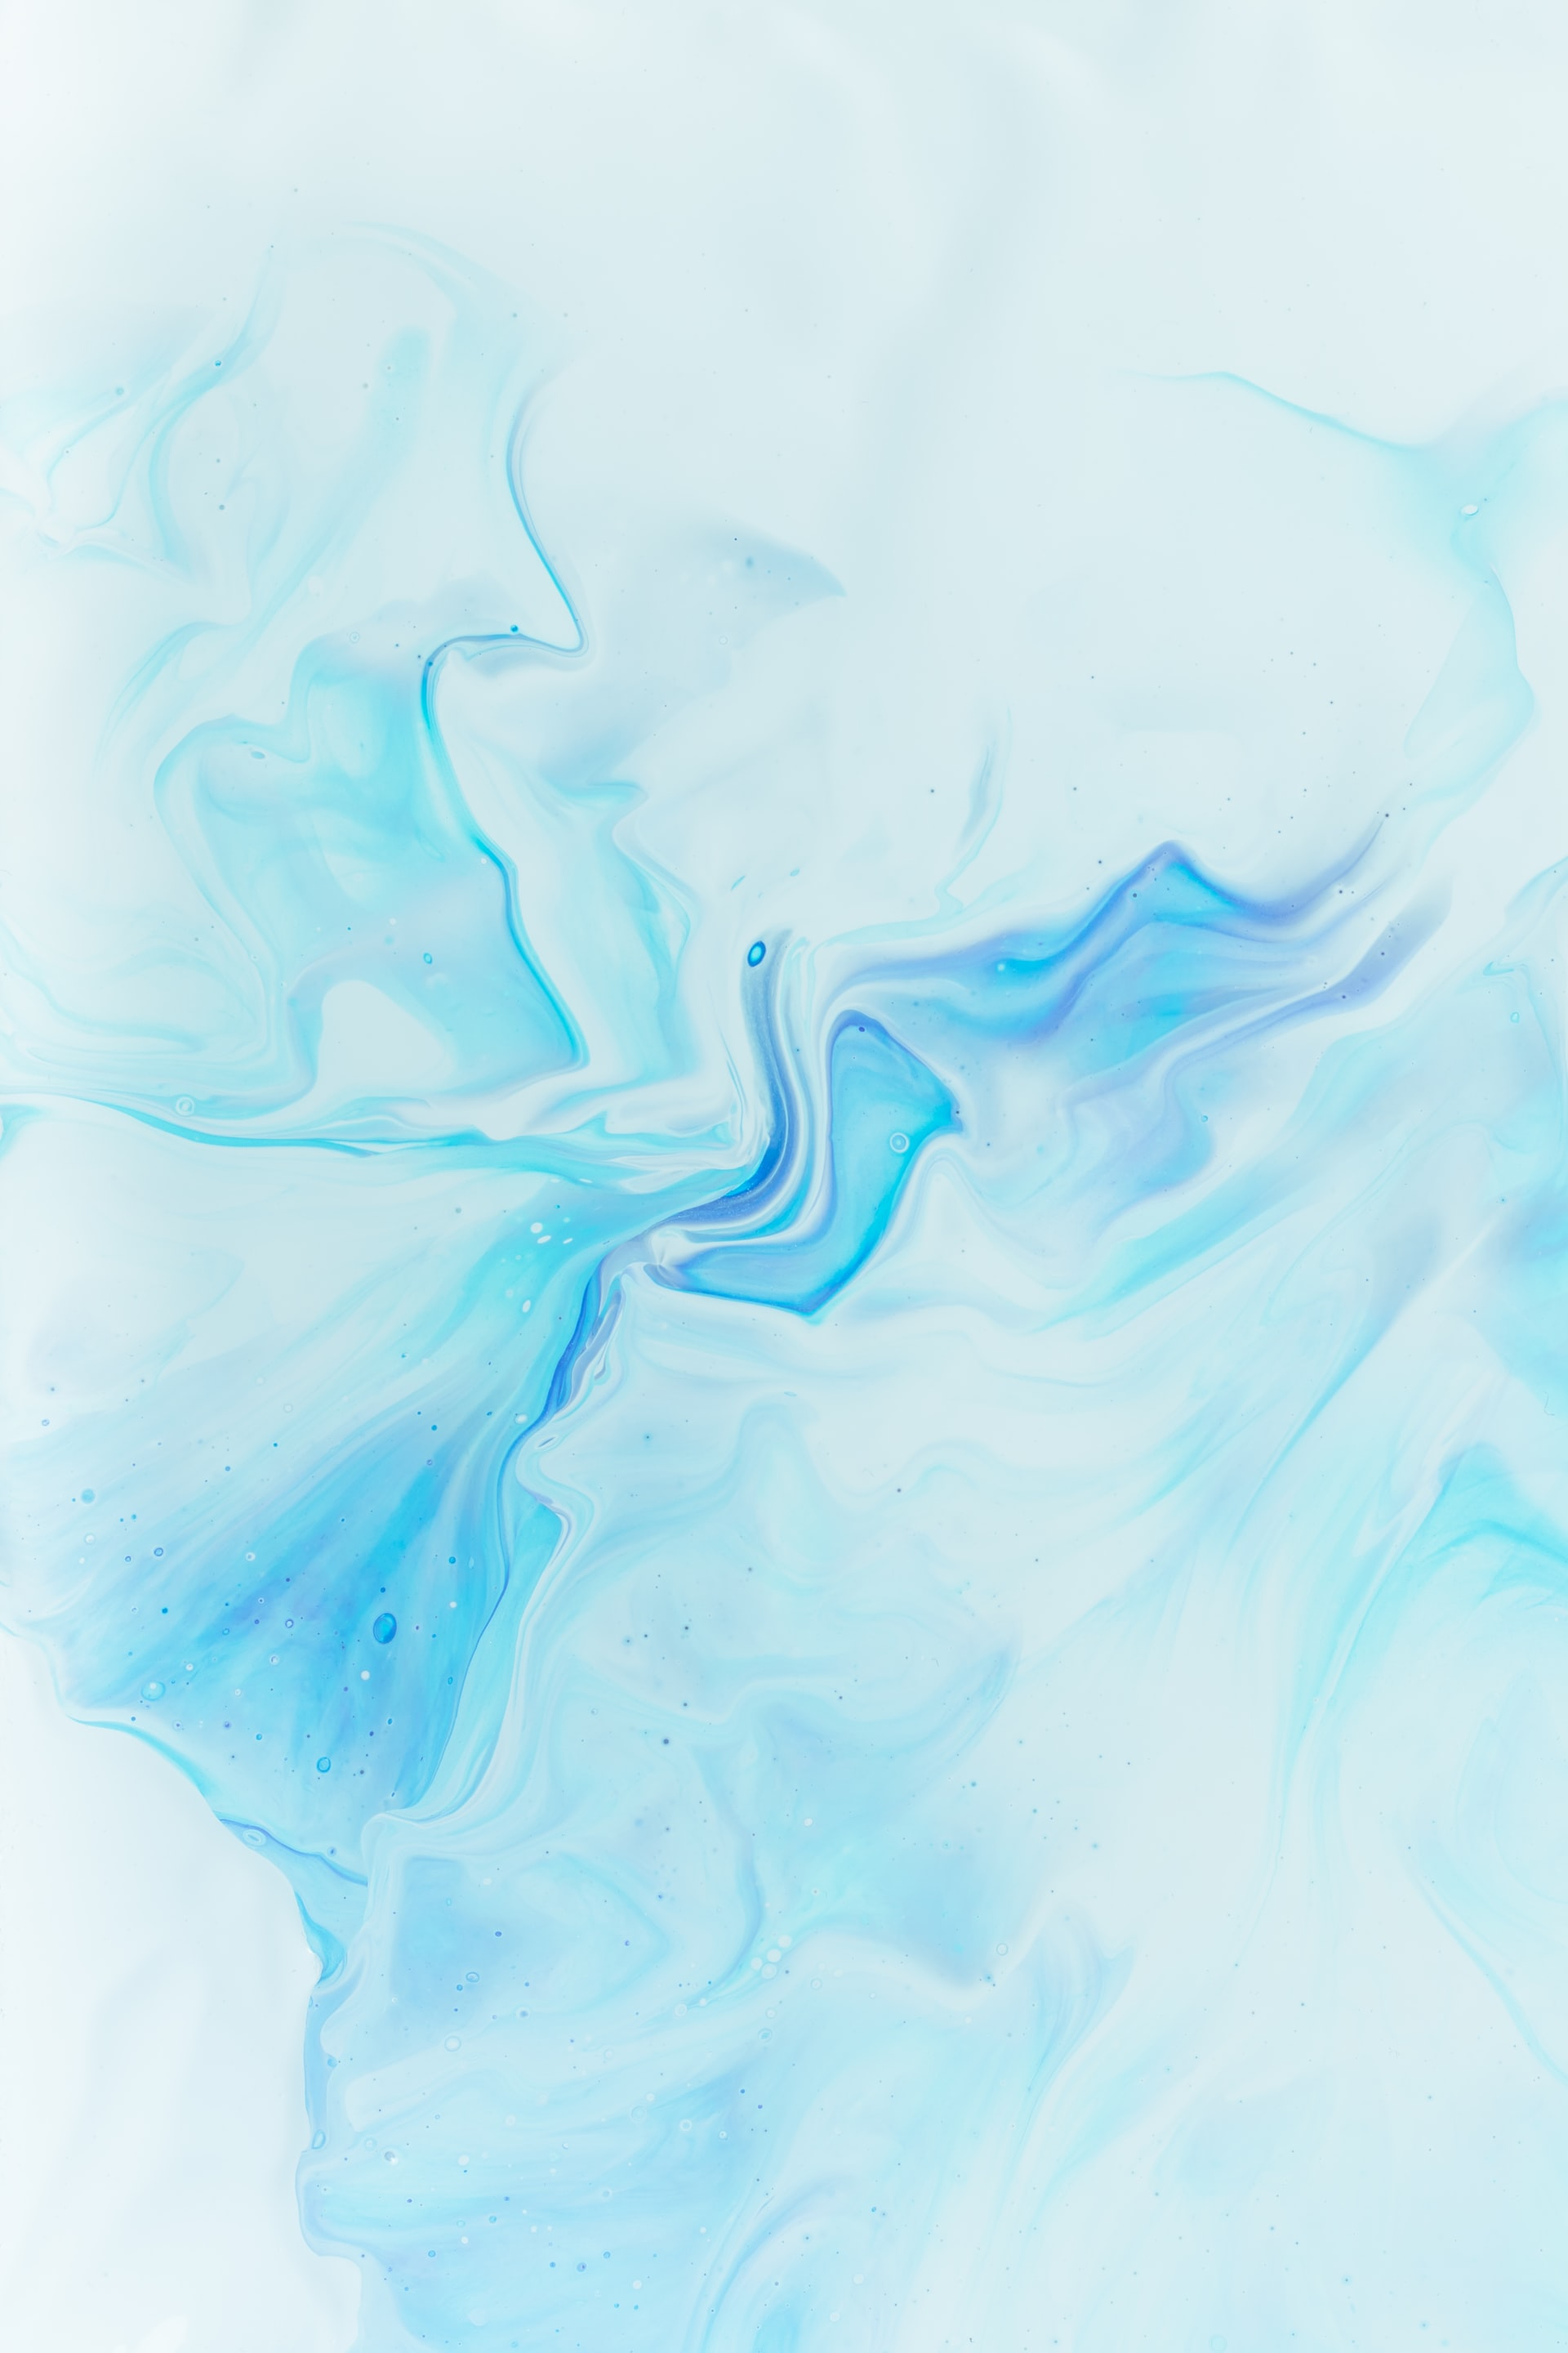
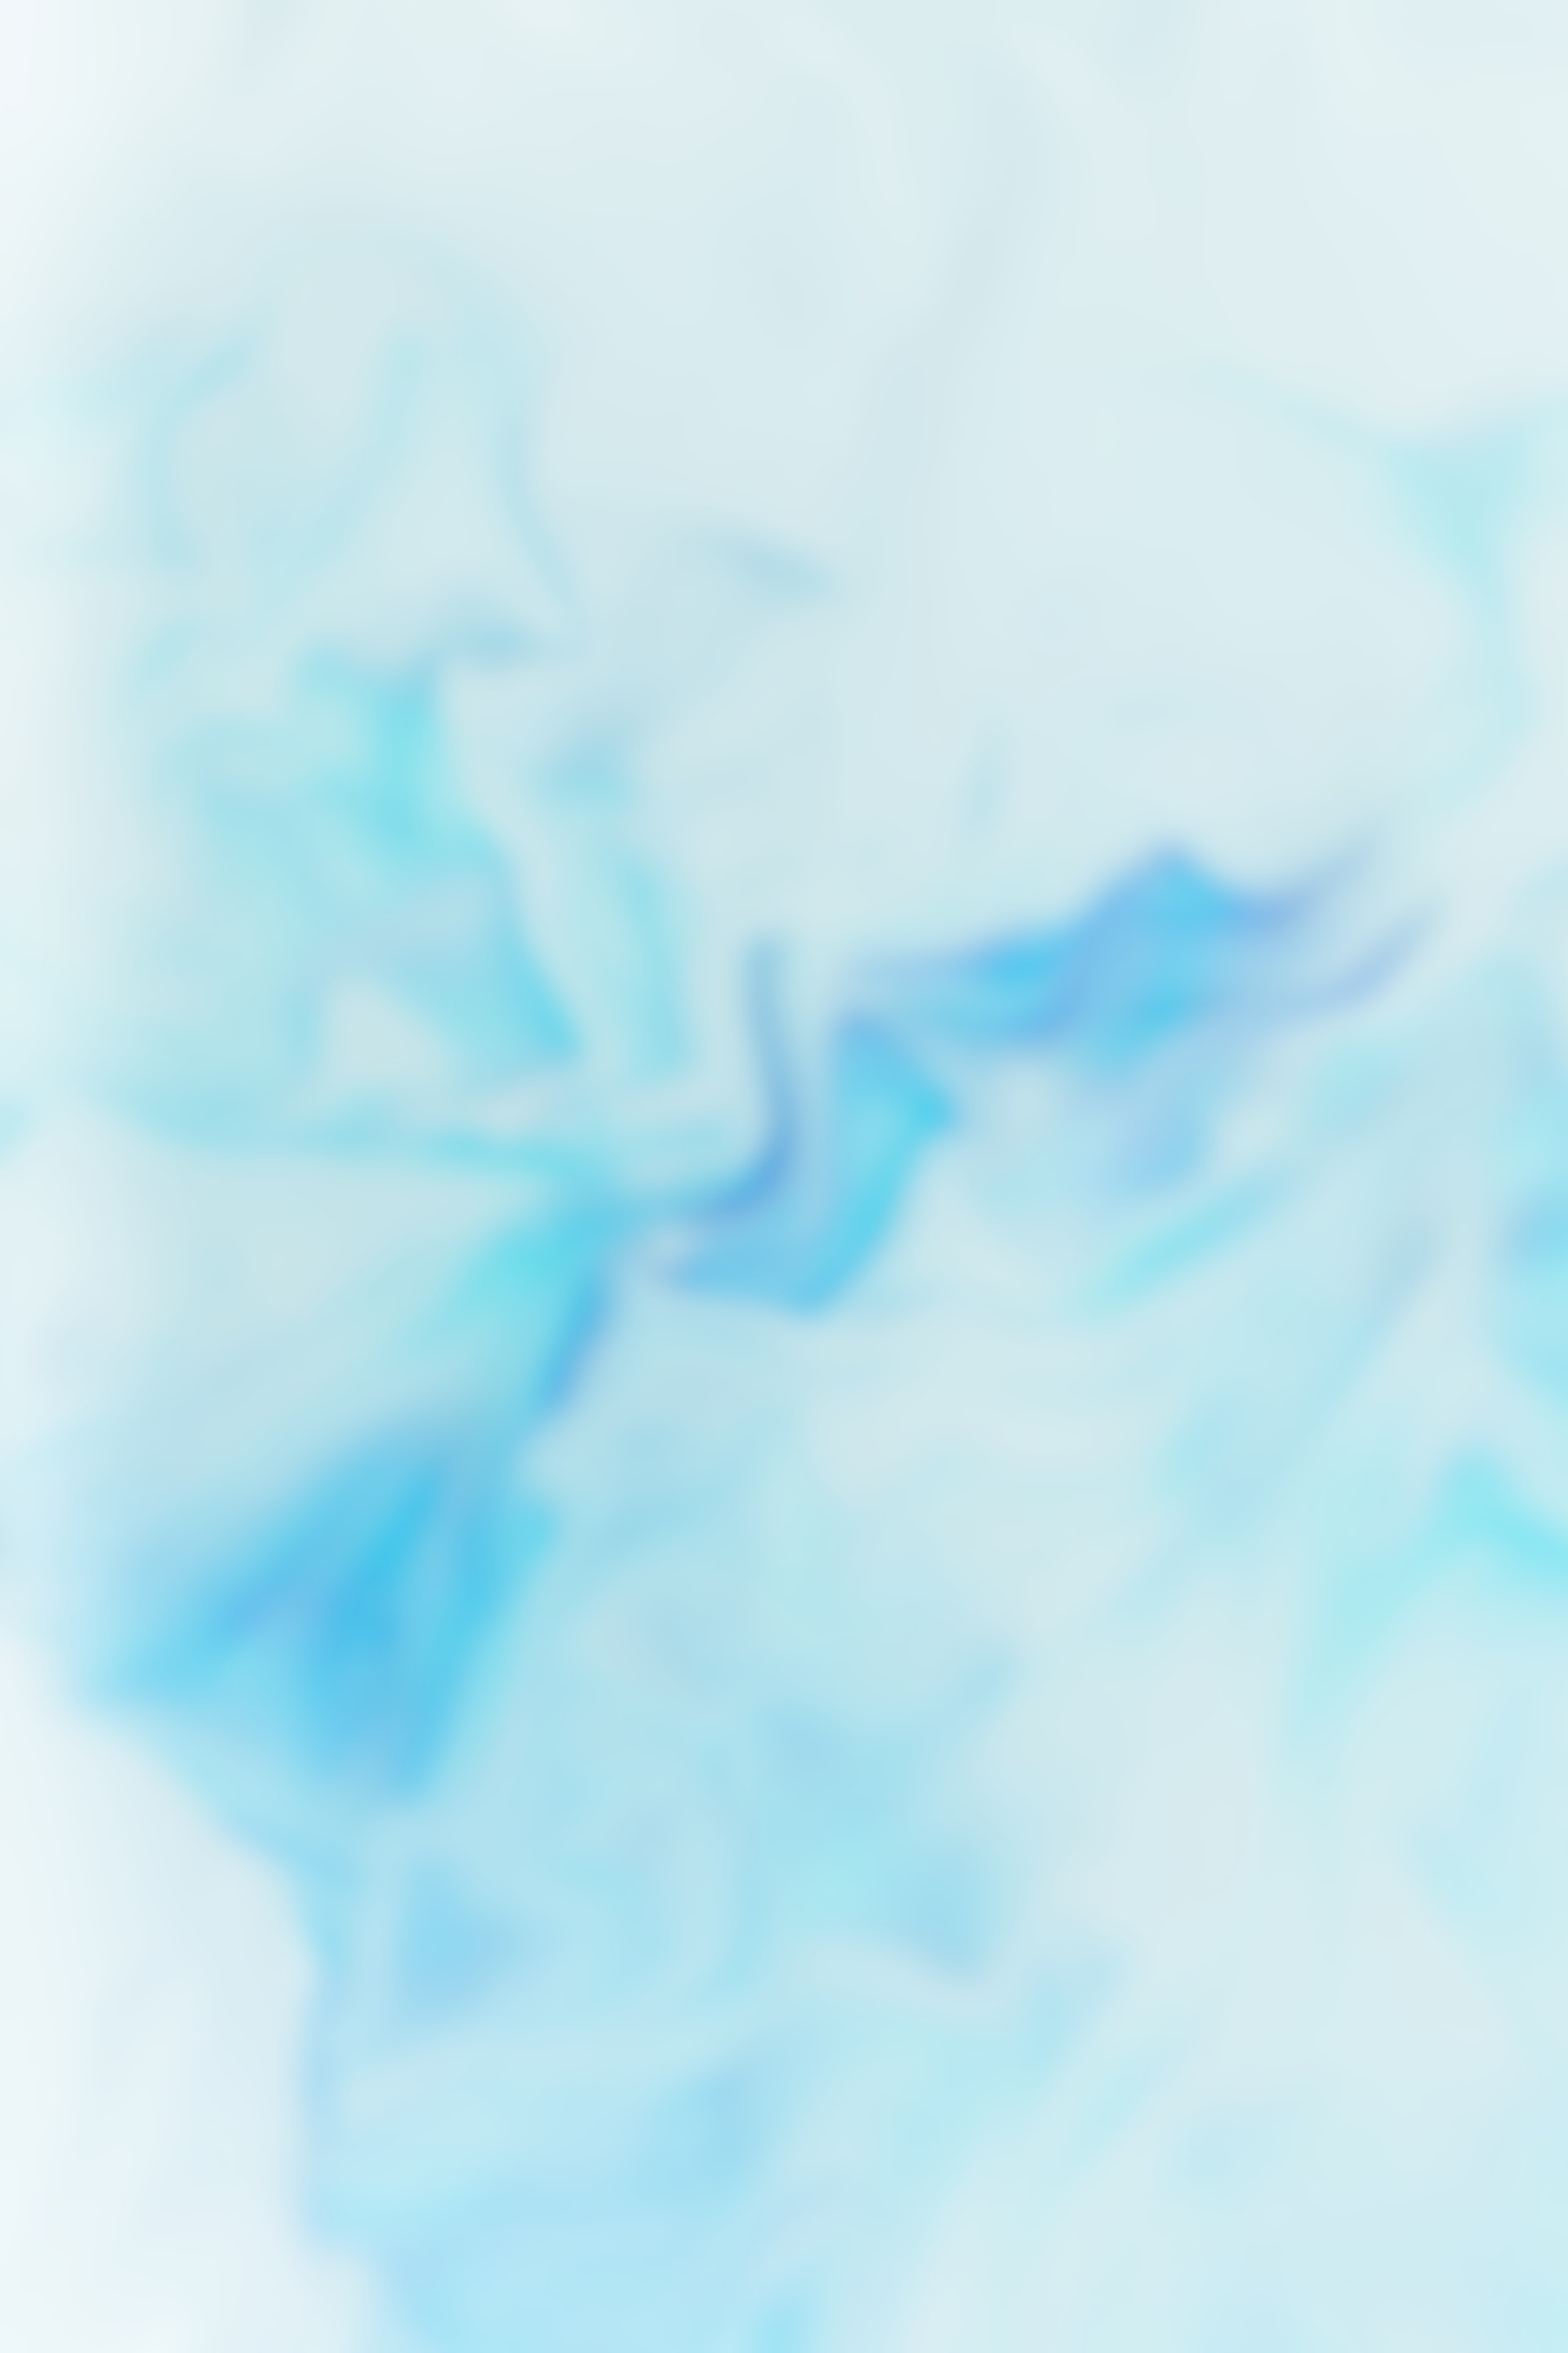
[appearance] add a blurred background image to footer and navbar

diff --git a/about/index.html b/about/index.html
@@ -22,7 +22,7 @@
     <link rel="icon" type="image/x-icon" href="https://raw.githubusercontent.com/AspectOS/aspectos.github.io/main/images/AspectOS%20Logo.png">
 </head>
     <body class="light">
-        <nav class="navbar navbar-light fade-main navbar-expand-lg">
+        <nav class="navbar navbar-light fade-main navbar-expand-lg footer-bg small-border-radius">
             <div class="container-fluid">
                 <a class="navbar-brand" href="https://aspectos.github.io">Aspect OS</a>
 
@@ -151,7 +151,7 @@
 
         <div class="container my-5">
           <footer class="text-center text-lg-start text-black" style="background-color: white">
-            <div class="container p-4 pb-0">
+            <div class="container p-4 pb-0 footer-bg small-border-radius">
               <section class="">
                 <div class="row">
                   <div class="col-md-3 col-lg-3 col-xl-3 mx-auto mt-3">

diff --git a/downloads/index.html b/downloads/index.html
@@ -22,7 +22,7 @@
     <link rel="icon" type="image/x-icon" href="https://raw.githubusercontent.com/AspectOS/aspectos.github.io/main/images/AspectOS%20Logo.png">
 </head>
     <body class="light">
-        <nav class="navbar navbar-light fade-main navbar-expand-lg">
+        <nav class="navbar navbar-light fade-main navbar-expand-lg footer-bg small-border-radius">
             <div class="container-fluid">
                 <a class="navbar-brand" href="https://aspectos.github.io">Aspect OS</a>
 
@@ -58,7 +58,7 @@
 
         <div class="container my-5">
           <footer class="text-center text-lg-start text-black" style="background-color: white">
-            <div class="container p-4 pb-0">
+            <div class="container p-4 pb-0 footer-bg small-border-radius">
               <section class="">
                 <div class="row">
                   <div class="col-md-3 col-lg-3 col-xl-3 mx-auto mt-3">

diff --git a/docs/index.html b/docs/index.html
@@ -21,7 +21,7 @@
     <link rel="icon" type="image/x-icon" href="https://raw.githubusercontent.com/AspectOS/aspectos.github.io/main/images/AspectOS%20Logo.png">
 </head>
     <body>
-        <nav class="navbar navbar-light fade-main navbar-expand-lg">
+        <nav class="navbar navbar-light fade-main navbar-expand-lg footer-bg small-border-radius">
             <div class="container-fluid">
                 <a class="navbar-brand" href="https://aspectos.github.io">Aspect OS</a>
 
@@ -52,7 +52,7 @@
 
         <div class="container my-5">
           <footer class="text-center text-lg-start text-black" style="background-color: white">
-            <div class="container p-4 pb-0">
+            <div class="container p-4 pb-0 footer-bg small-border-radius">
               <section class="">
                 <div class="row">
                   <div class="col-md-3 col-lg-3 col-xl-3 mx-auto mt-3">

diff --git a/dummy.html b/dummy.html
@@ -20,7 +20,7 @@
     <title>Aspect OS Dummy Page</title>
 </head>
     <body>
-        <nav class="navbar navbar-light fade-main navbar-expand-lg">
+        <nav class="navbar navbar-light fade-main navbar-expand-lg footer-bg small-border-radius">
             <div class="container-fluid">
                 <a class="navbar-brand" href="https://aspectos.github.io">Aspect OS</a>
 
@@ -79,7 +79,7 @@
 
         <div class="container my-5">
           <footer class="text-center text-lg-start text-black" style="background-color: white">
-            <div class="container p-4 pb-0">
+            <div class="container p-4 pb-0 footer-bg small-border-radius">
               <section class="">
                 <div class="row">
                   <div class="col-md-3 col-lg-3 col-xl-3 mx-auto mt-3">

diff --git a/index.html b/index.html
@@ -21,7 +21,7 @@
    
 </head>
     <body class="light">
-         <nav class="navbar navbar-light fade-main navbar-expand-lg">
+         <nav class="navbar navbar-light fade-main navbar-expand-lg footer-bg small-border-radius">
             <div class="container-fluid">
                 <a class="navbar-brand" href="https://aspectos.github.io">Aspect OS</a>
 
@@ -78,7 +78,7 @@
     </div>
     <div class="container my-5">
       <footer class="text-center text-lg-start text-black" style="background-color: white">
-        <div class="container p-4 pb-0">
+        <div class="container p-4 pb-0 footer-bg small-border-radius">
           <section class="">
             <div class="row">
               <div class="col-md-3 col-lg-3 col-xl-3 mx-auto mt-3">

diff --git a/403.html b/403.html
@@ -20,7 +20,7 @@
     <title>What?</title>
 </head>
     <body>
-        <nav class="navbar navbar-light fade-main navbar-expand-lg">
+        <nav class="navbar navbar-light fade-main navbar-expand-lg footer-bg small-border-radius">
             <div class="container-fluid">
                 <a class="navbar-brand" href="/">Aspect OS</a>
 
@@ -64,7 +64,7 @@
 
 <div class="container my-5">
   <footer class="text-center text-lg-start text-black" style="background-color: white">
-    <div class="container p-4 pb-0">
+    <div class="container p-4 pb-0 footer-bg small-border-radius">
       <section class="">
         <div class="row">
           <div class="col-md-3 col-lg-3 col-xl-3 mx-auto mt-3">

diff --git a/main.css b/main.css
@@ -35,3 +35,14 @@ body {
     margin: 5px;
     padding: 5px;
 }
+
+/* Don't remove to keep footer looking nice! Please! */
+.footer-bg {
+    background-image: url("images/PrettyBackgroundImage.jpg");
+    background-size: cover;
+    background-position: center;
+}
+
+.small-border-radius {
+    border-radius: 7px;
+}
